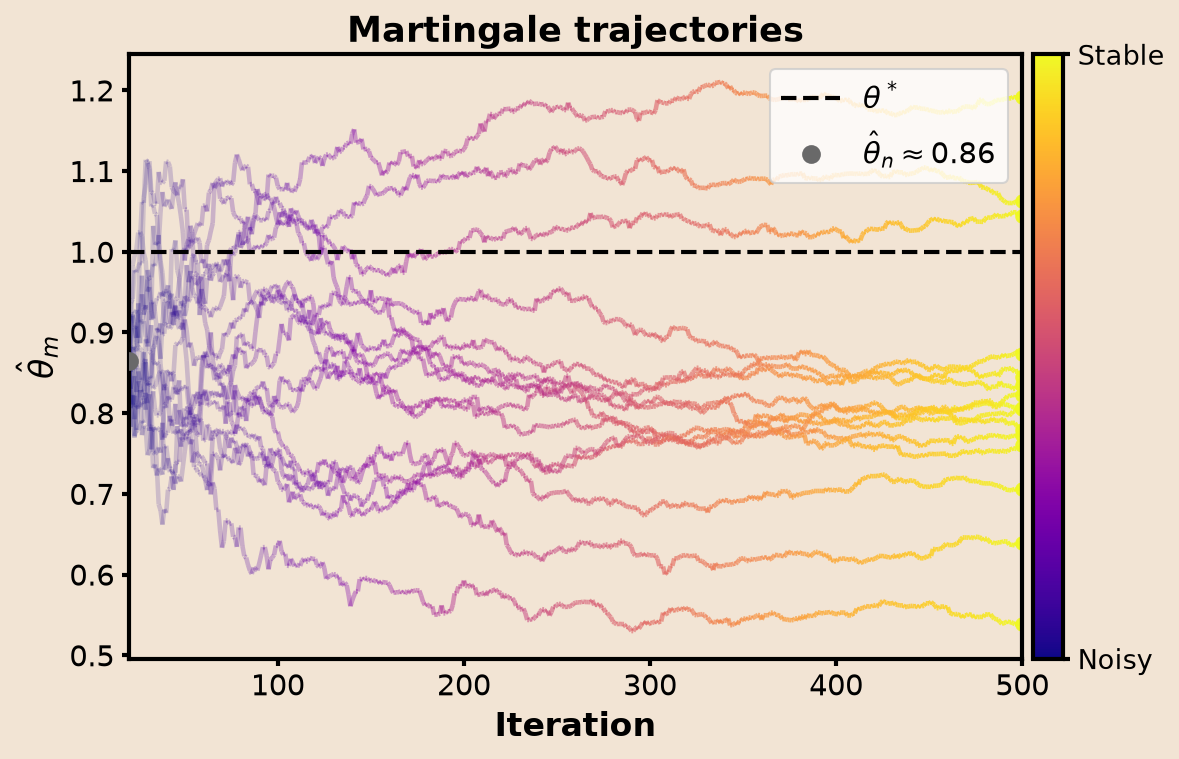
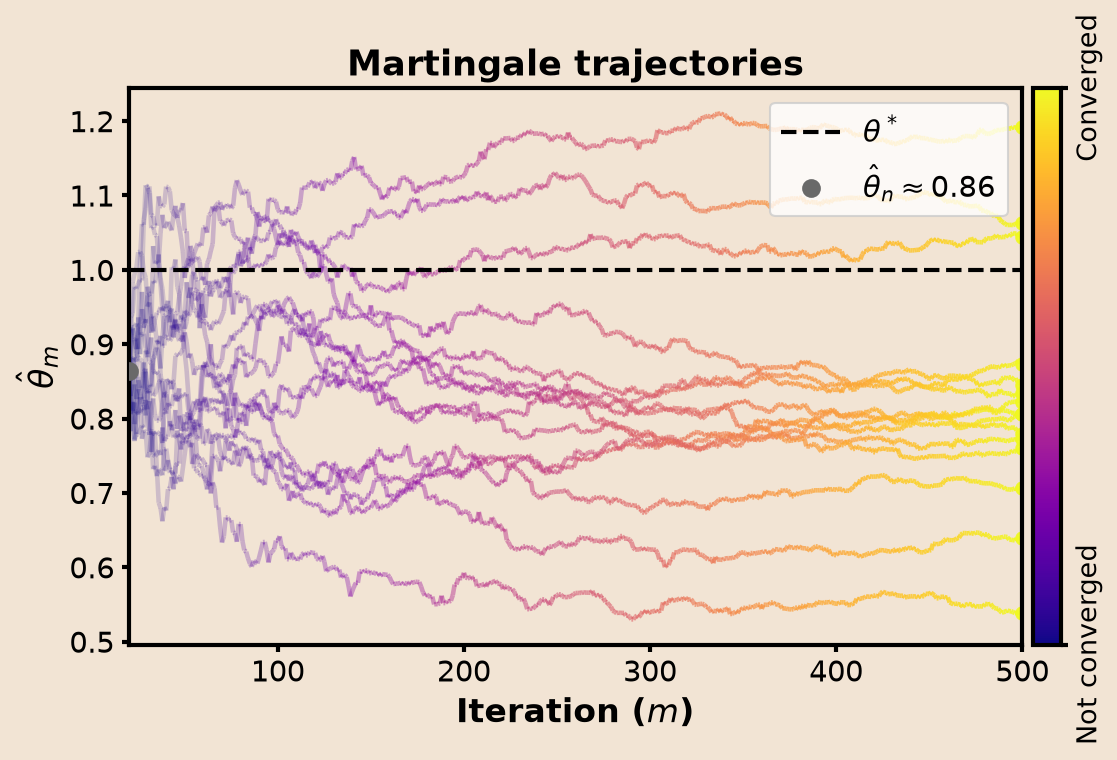
Rotate colorbar tick labels, label x-axis with m
Colorbar keeps the full accurate "Not converged"/"Converged" wording but
rotated 90 degrees to run parallel to the bar, avoiding the horizontal
whitespace that word length caused before. X-axis label now names the
iteration variable ($m$) used in the update loop.

Changed region(s): [[0.0, 0.0, 1.0, 0.9697], [0.9436, 0.9394, 1.0, 0.9697], [0.3957, 0.1515, 0.4261, 0.1818]]

diff --git a/scripts/plot_results.py b/scripts/plot_results.py
@@ -84,11 +84,11 @@ def plot_trajectories(theta_traj, x_traj, theta_star, S_n, n, M, num_plot, path)
     sm.set_array([])
     cbar = fig.colorbar(sm, ax=ax, pad=0.01)
     cbar.set_ticks([0, 1])
-    cbar.set_ticklabels(["Noisy", "Stable"])
+    cbar.set_ticklabels(["Not converged", "Converged"], rotation=90, va="center")
     cbar.ax.tick_params(labelsize=13, width=2.0)
     cbar.outline.set_linewidth(2.0)
 
-    ax.set_xlabel("Iteration", fontsize=16, fontweight="bold")
+    ax.set_xlabel("Iteration ($m$)", fontsize=16, fontweight="bold")
     ax.set_ylabel(r"$\hat\theta_m$", fontsize=16, fontweight="bold")
     ax.set_title("Martingale trajectories", fontsize=17, fontweight="bold")
     ax.set_xlim(n, M)